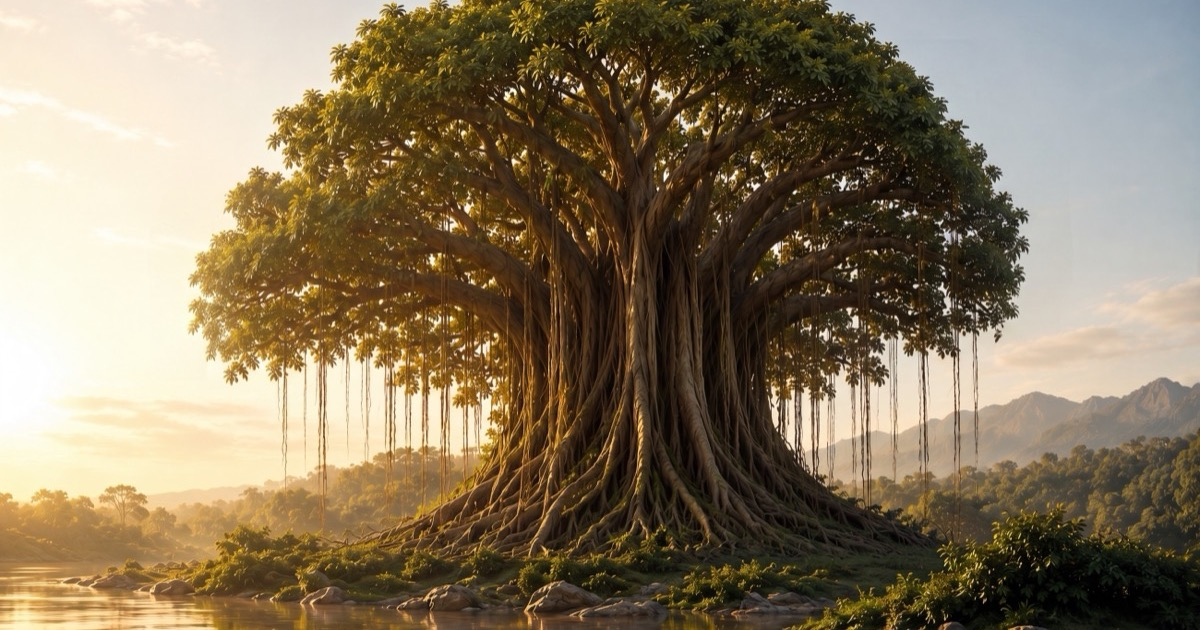
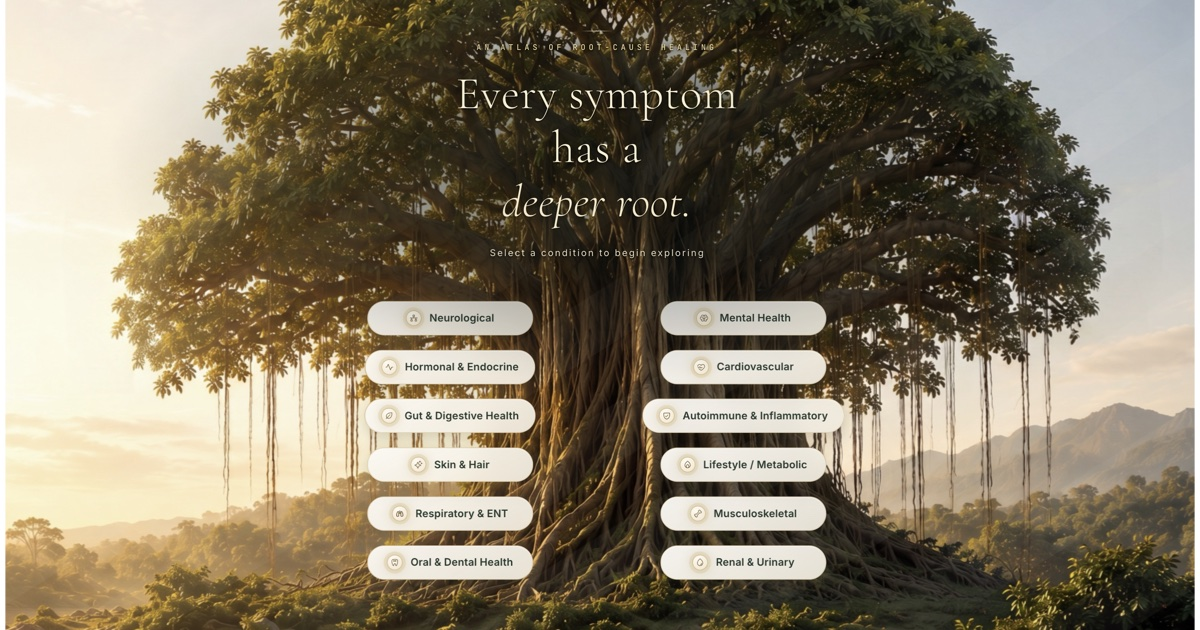
Update social share image and point OG tags to himanshugarg.in
- Replace og-image.jpg with new banyan-tree social share (1200x630)
- Update og:url/og:image/twitter:image to himanshugarg.in
- Add client domain setup guide

diff --git a/index.html b/index.html
@@ -15,16 +15,16 @@
   <meta property="og:type" content="website" />
   <meta property="og:title" content="Himanshu Garg — Every symptom has a deeper root" />
   <meta property="og:description" content="Functional-medicine and Ayurveda-informed health coaching. Root-cause healing for chronic, metabolic, hormonal, and gut conditions." />
-  <meta property="og:image" content="https://banyan-tree-psi.vercel.app/og-image.jpg" />
+  <meta property="og:image" content="https://himanshugarg.in/og-image.jpg" />
   <meta property="og:image:width" content="1200" />
   <meta property="og:image:height" content="630" />
-  <meta property="og:url" content="https://banyan-tree-psi.vercel.app/" />
+  <meta property="og:url" content="https://himanshugarg.in/" />
 
   <!-- Twitter/X card -->
   <meta name="twitter:card" content="summary_large_image" />
   <meta name="twitter:title" content="Himanshu Garg — Every symptom has a deeper root" />
   <meta name="twitter:description" content="Functional-medicine and Ayurveda-informed health coaching. Root-cause healing at the source." />
-  <meta name="twitter:image" content="https://banyan-tree-psi.vercel.app/og-image.jpg" />
+  <meta name="twitter:image" content="https://himanshugarg.in/og-image.jpg" />
 
   <!-- Poster loads in ~200ms; video streams behind it — splash feels instant -->
   <link rel="preload" as="image" href="/splash-poster.jpg" />

diff --git a/DOMAIN_SETUP_GUIDE.md b/DOMAIN_SETUP_GUIDE.md
@@ -1,0 +1,56 @@
+# How to Connect Your Domain (himanshugarg.in)
+
+Your website is built and ready — it just needs your domain pointed at it.
+This is a **one-time, 2-minute change** in your Hostinger account. No
+password needs to be shared with anyone.
+
+---
+
+## Step 1 — Log in to Hostinger
+
+1. Go to **hpanel.hostinger.com** and log in.
+2. Click **Domains**, then select **himanshugarg.in**.
+3. Go to **DNS / Nameservers**.
+
+---
+
+## Step 2 — Confirm the nameservers
+
+At the top of the page, under **Nameservers**, you should see:
+
+```
+ns1.vercel-dns.com
+ns2.vercel-dns.com
+```
+
+If you see these already listed, click **Change Nameservers** and **Save /
+Confirm** them — they may be shown but not yet applied. If instead you see
+different nameservers, replace them with the two above and save.
+
+This single change hands over DNS management to Vercel, which then
+automatically handles everything needed to serve your website — no manual
+records to add.
+
+---
+
+## Step 3 — Wait for it to take effect
+
+- Nameserver changes typically apply within a few hours, but can take up to
+  **24–48 hours** to fully propagate worldwide.
+- Once it's done, **himanshugarg.in** and **www.himanshugarg.in** will both
+  load your website automatically, with a secure padlock (https).
+- You can ignore the "Manage DNS records" section further down the
+  Hostinger page — once nameservers point to Vercel, that section no longer
+  applies.
+
+---
+
+## Good to know
+
+- You don't need to share your Hostinger password with anyone for this.
+- If you ever add an email service on this domain in the future, that's
+  managed through Vercel's DNS settings, not Hostinger's — let your
+  developer know if you set one up.
+- If anything on the Hostinger page looks different from what's described
+  here (e.g. different button names), it's fine — the goal is simply
+  setting the nameservers to `ns1.vercel-dns.com` and `ns2.vercel-dns.com`.